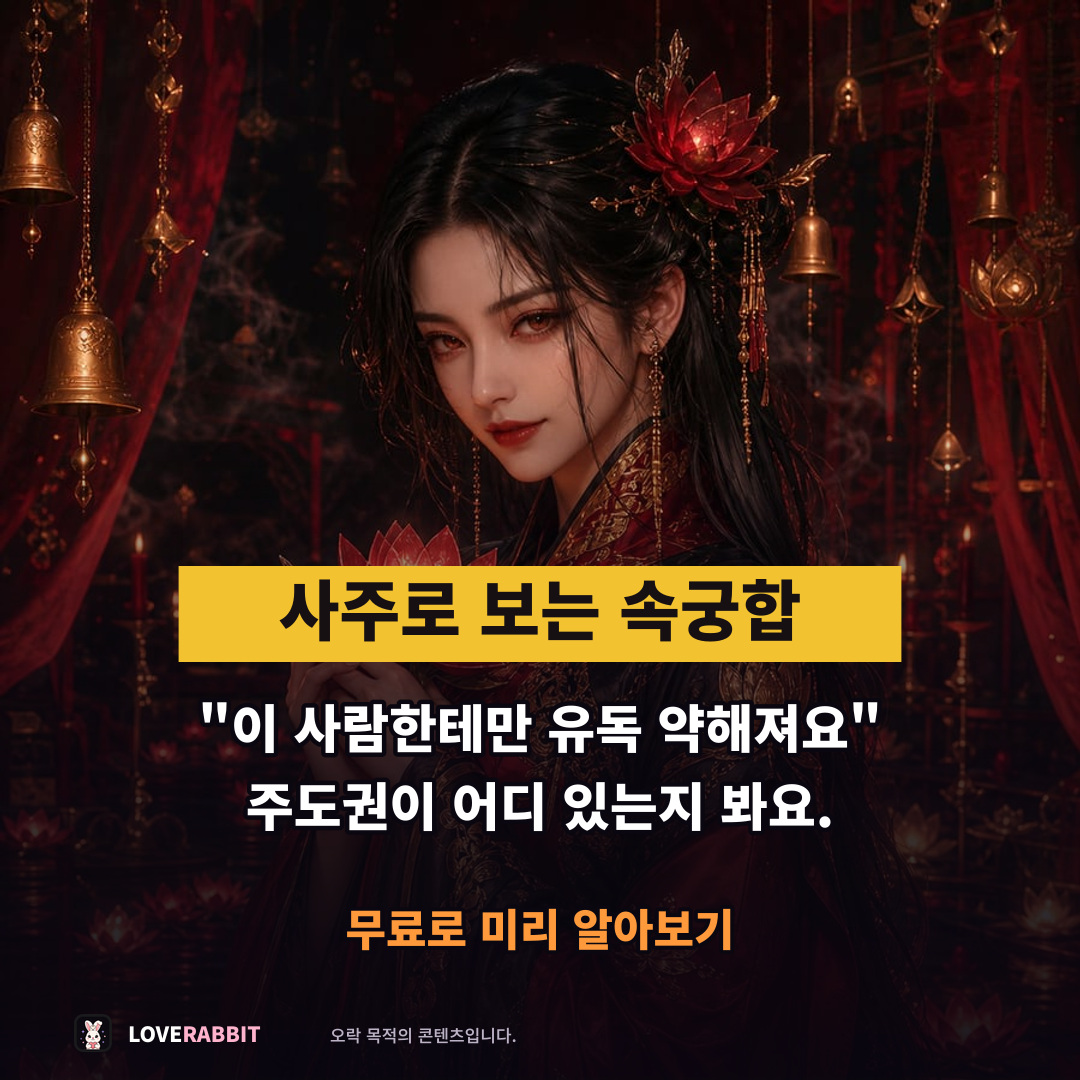
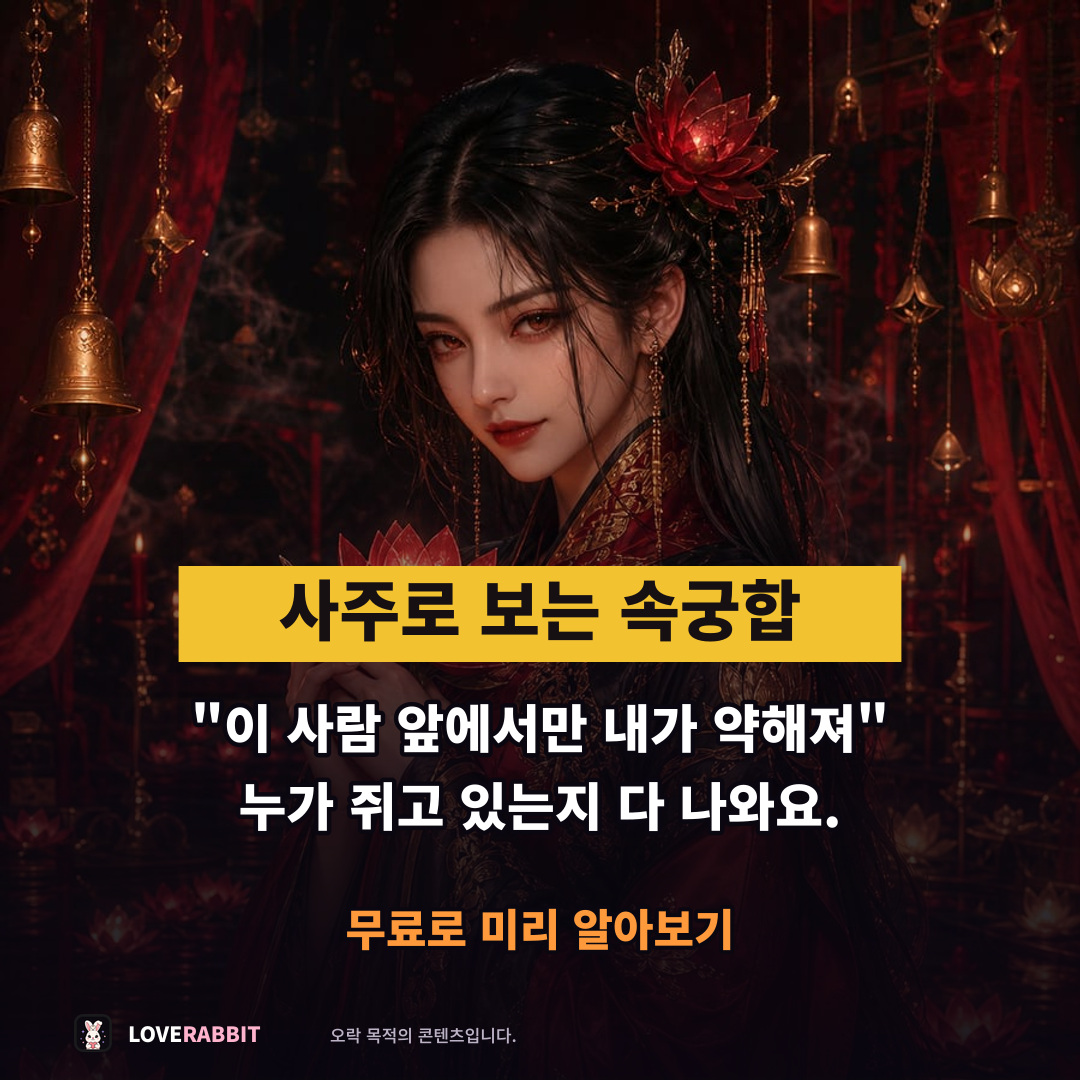
문구를 날것으로 바꾸되 껍데기는 남긴다
여섯 장의 세 줄을 더 세게 다시 썼다. 첫 줄은 설명을 걷어내고 유저가 실제로
하는 말로 (읽씹은 아닌데 진도가 안 나가), 둘째 줄은 권유를 걷어내고 리포트가
주는 것만 명사로 말한다 (그 연애가 끝난 진짜 이유).

따옴표는 안 뺐다. 메타는 광고가 보는 사람의 연애 상태를 안다고 암시하는 것을
금지한다 - 2인칭으로 물으면 그 자체가 거부 사유다. 따옴표 안에 넣으면 남의
혼잣말이 되어 단정이 아니게 된다. 이 껍데기는 세게 쓰더라도 벗기면 안 된다.

06 만 덜 세게 뒀다. 심의 위험이 이미 가장 높은 소재라 낱말까지 세게 하면
소재 자체를 잃는다.

Changed region(s): [[0.1833, 0.6417, 0.825, 0.7944]]

diff --git a/marketing/ads/shrine-square-v1/SHRINE_SQUARE_V1.md b/marketing/ads/shrine-square-v1/SHRINE_SQUARE_V1.md
@@ -22,16 +22,22 @@ node marketing/ads/compose-shrine-square-v1.mjs
 
 | | 첫 줄 | 둘째 줄 |
 |---|---|---|
-| 01 | 붙잡을지 정리할지 매번 제자리 | 어디서 어긋났는지부터 봐요. |
-| 02 | "잘 맞다가 왜 꼭 그 지점에서" | 부딪히는 자리부터 짚어봐요. |
-| 03 | "이 사람한테만 유독 약해져요" | 주도권이 어디 있는지 봐요. |
-| 04 | "언제쯤 좋은 사람 만날까" | 시기와 만날 자리까지 봐요. |
-| 05 | "밀당일까 관심이 없는 걸까" | 멈춰 선 이유부터 봐요. |
-| 06 | 가까워질수록 달라지는 온도 | 완급이 어디서 어긋나는지 봐요. |
+| 01 | "내가 뭘 그렇게 잘못했을까" | 그 연애가 끝난 진짜 이유. |
+| 02 | "잘 만나다가 꼭 여기서 틀어져" | 둘이 반드시 부딪히는 지점. |
+| 03 | "이 사람 앞에서만 내가 약해져" | 누가 쥐고 있는지 다 나와요. |
+| 04 | "올해도 그냥 지나가는 건가" | 인연 들어오는 달, 나옵니다. |
+| 05 | "읽씹은 아닌데 진도가 안 나가" | 둘 중 누가 브레이크를 밟나. |
+| 06 | "가까워질수록 어긋나는 느낌" | 둘의 속도, 어디서 갈리나. |
 
-첫 줄은 유저가 이미 하고 있는 말이고, 둘째 줄은 **권유지 단정이 아니다.**
-"사주가 이렇다" 로 쓰면 아직 보지도 않은 사람의 사주를 광고에서 못박는 셈이
-된다. 그래서 전부 `-봐요` 로 끝난다.
+**첫 줄은 반드시 따옴표 안의 혼잣말이다.** 메타는 광고가 보는 사람의 개인
+속성 — 연애 상태를 포함해 — 을 안다고 단정하거나 암시하는 것을 금지한다.
+`헤어지셨나요?` 처럼 2인칭으로 물으면 그 자체가 거부 사유다. 따옴표 안에
+넣으면 남의 혼잣말을 옮긴 것이 되어 단정이 아니게 된다. 세게 쓰고 싶어도
+이 껍데기는 벗기지 마라.
+
+**둘째 줄은 리포트가 무엇을 주는지만 말한다.** `사주가 이렇다` 로 쓰면 아직
+보지도 않은 사람의 사주를 광고에서 못박는 셈이 된다. 그래서 전부 명사로
+끝나거나 질문으로 남는다 — 약속이지 판정이 아니다.
 
 ## 문구의 근거
 
